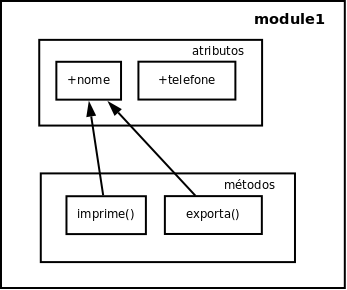
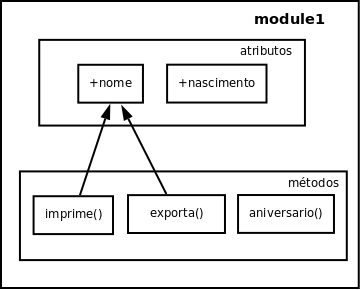
revisando conceitos; corrigindo grafico de exemplo LCOM1

Changed region(s): [[0.0288, 0.0, 1.0, 1.0], [0.6916, 0.031, 0.951, 0.0931], [0.0865, 0.1241, 0.1153, 0.4345]]

diff --git a/monografia-content.tex b/monografia-content.tex
@@ -160,10 +160,9 @@ entre os métodos {\it imprime} e {\it exporta}.
 É desejável que a coesão dos componentes de um sistema seja alta, isto garante
 que o acoplamento do sistema seja baixo e como consequência a complexidade do
 sistema cai facilitando a manutenção e o desenvolvimento. LCOM mede a falta de
-coesão então valores baixos significam boa coesão, se LCOM é alto métodos podem
-estar acoplados uns aos outros através de atributos, isto aumenta a
-complexidade do projeto da classe. LCOM alto pode significar que é melhor dividir
-a classe em subclasses \cite{observationsOnLCOM}.
+coesão, então valores baixos significam boa coesão, se LCOM é alto métodos podem
+estar acoplados uns aos outros através de atributos, isto pode significar que é
+melhor dividir a classe em subclasses \cite{observationsOnLCOM}.
 
 Após a definição inicial de Chidamber e Kemerer para o cálculo de LCOM vários
 autores propuseram modificações e melhorias deste método, as mais significantes
@@ -182,19 +181,38 @@ A definição original por Chidamber e Kemerer comumente chamada de LCOM1 e a
 redefinição por Hitz e Montazerri conhecida como LCOM4 serão as métricas
 abordadas neste trabalho.
 
-A definição original LCOM1 após sua publicação recebeu várias críticas,
-primeiro para classes muito diferentes ela dá valor zero. Segundo Gupta
-\cite{aCritiqueOfCohesion} LCOM1 não é um caminho válido para medir coesão de
-classes. 
+A definição original LCOM1 após sua publicação recebeu algumas críticas, uma
+delas feitar por \citeonline{aCritiqueOfCohesion} onde ele diz: ''LCOM1 não é
+um caminho válido para medir coesão de classes, sua definição é baseada em
+iterações entre método e dados, o que pode não ser um bom caminho para definir
+coesão no mundo da orientação a objetos. Além disso, para classes muito
+diferentes ela dar valores de LCOM1 iguais''.
 
-LCOM1 é calculado da seguinte forma:
+LCOM1 é calculado da seguinte forma, considere C1 uma classe com M1, M2,
+\ldots, Mn métodos e Ii o conjunto de atributos (variábeis de instancia) de C1
+sendo usado pelo método Mi. Para cada método Mi de C1 deve existir um grupo de
+atributos Ii correspondente. LCOM é Número distinto de grupos formados pela
+intersecção dos 'n' conjuntos.
 
-Considere C1 uma classe com M1, M2, \ldots, Mn métodos e Ii o conjunto de
-atributos (variábeis de instancia) de C1 sendo usado pelo método Mi. Para cada
-método Mi de C1 deve existir um grupo de atributos Ii correspondente.
+\begin{figure}[h]
+\center
+\includegraphics[scale=0.4]{imagens/exemplo-lcom1-hitz-e-montazerri}
+\caption{Exemplo LCOM1 \cite{measuringCouplingAndCohesion}}
+\label{fig:exemplo-lcom1}
+\end{figure}
 
-Então, LCOM = Número distinto de grupos formados pela intersecção dos 'n'
-conjuntos.
+Por exemplo, na classe da figura~\ref{fig:exemplo-lcom1}, existem 2 pares de
+métodos que não compartilham nenhuma variável ($<$f, g$>$ e $<$f, h$>$) e exatamente um par que compartilha a variável E ($<$g, h$>$). Portanto, LCOM é 2 - 1 = 1.
+
+%   Although the principle idea behind this definition seems
+%very sensible, the resulting cohesion metric exhibits several
+%anomalies with respect to the intuitive understanding7 of the
+%attribute, the most important of which will be explained be-
+%low.
+%   Consider the following two designs (each Venn diagram re-
+%presents a method by the set of instance variables it employs):
+
+
 
 % ----------- IMPLEMENTACAO -------------
 
